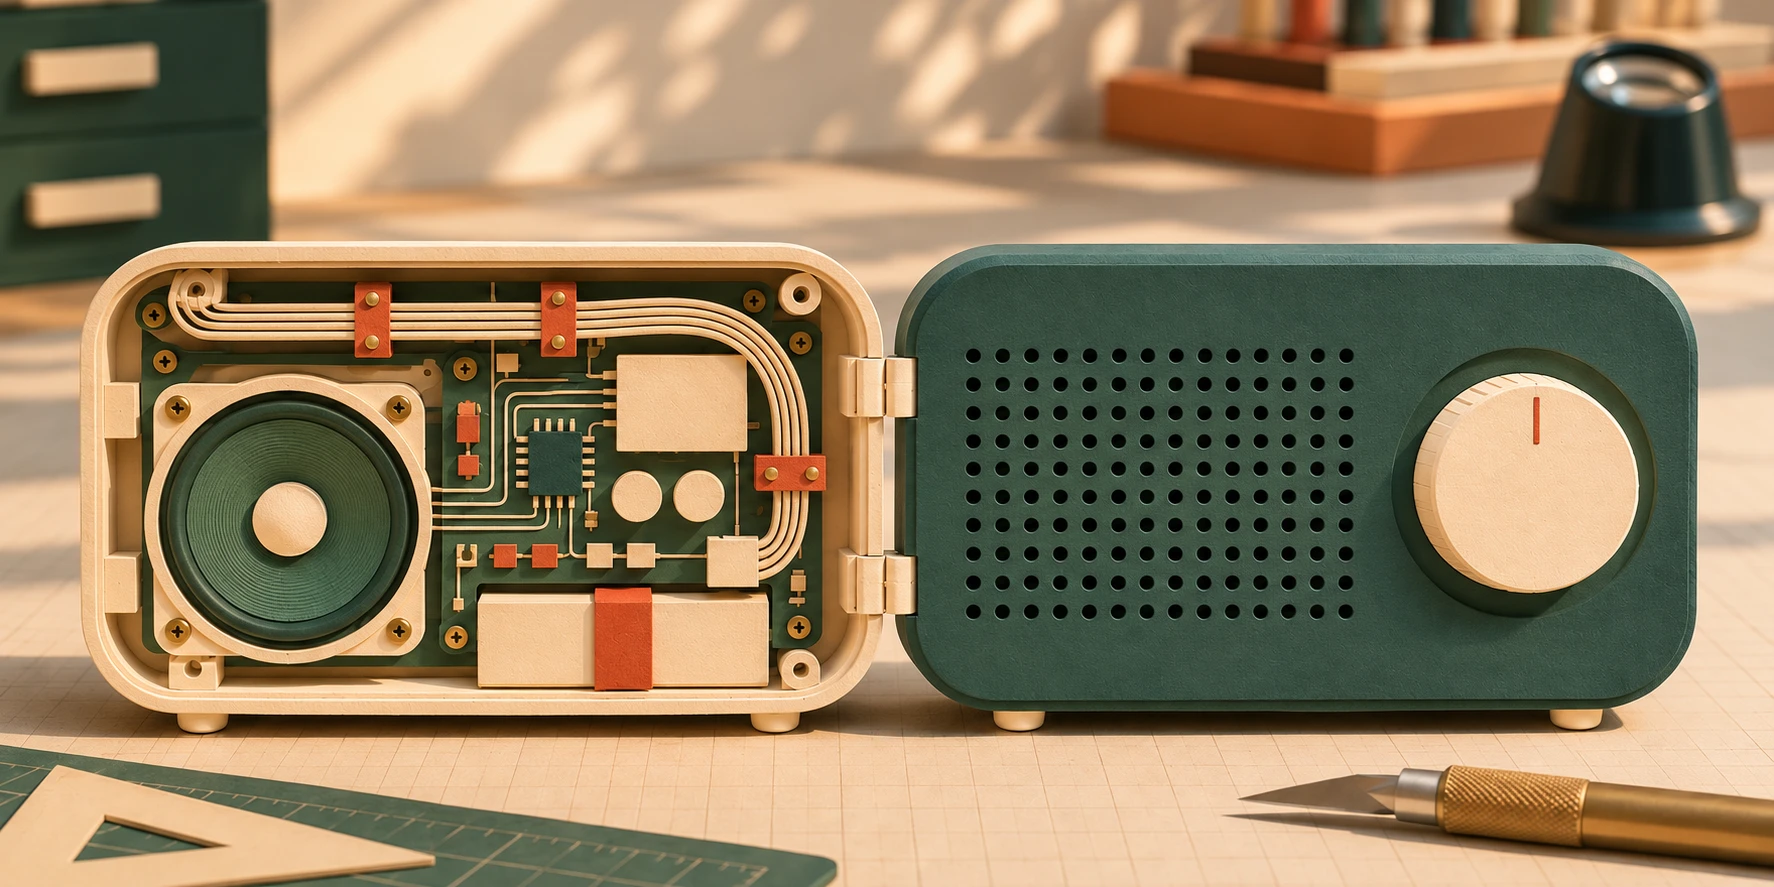
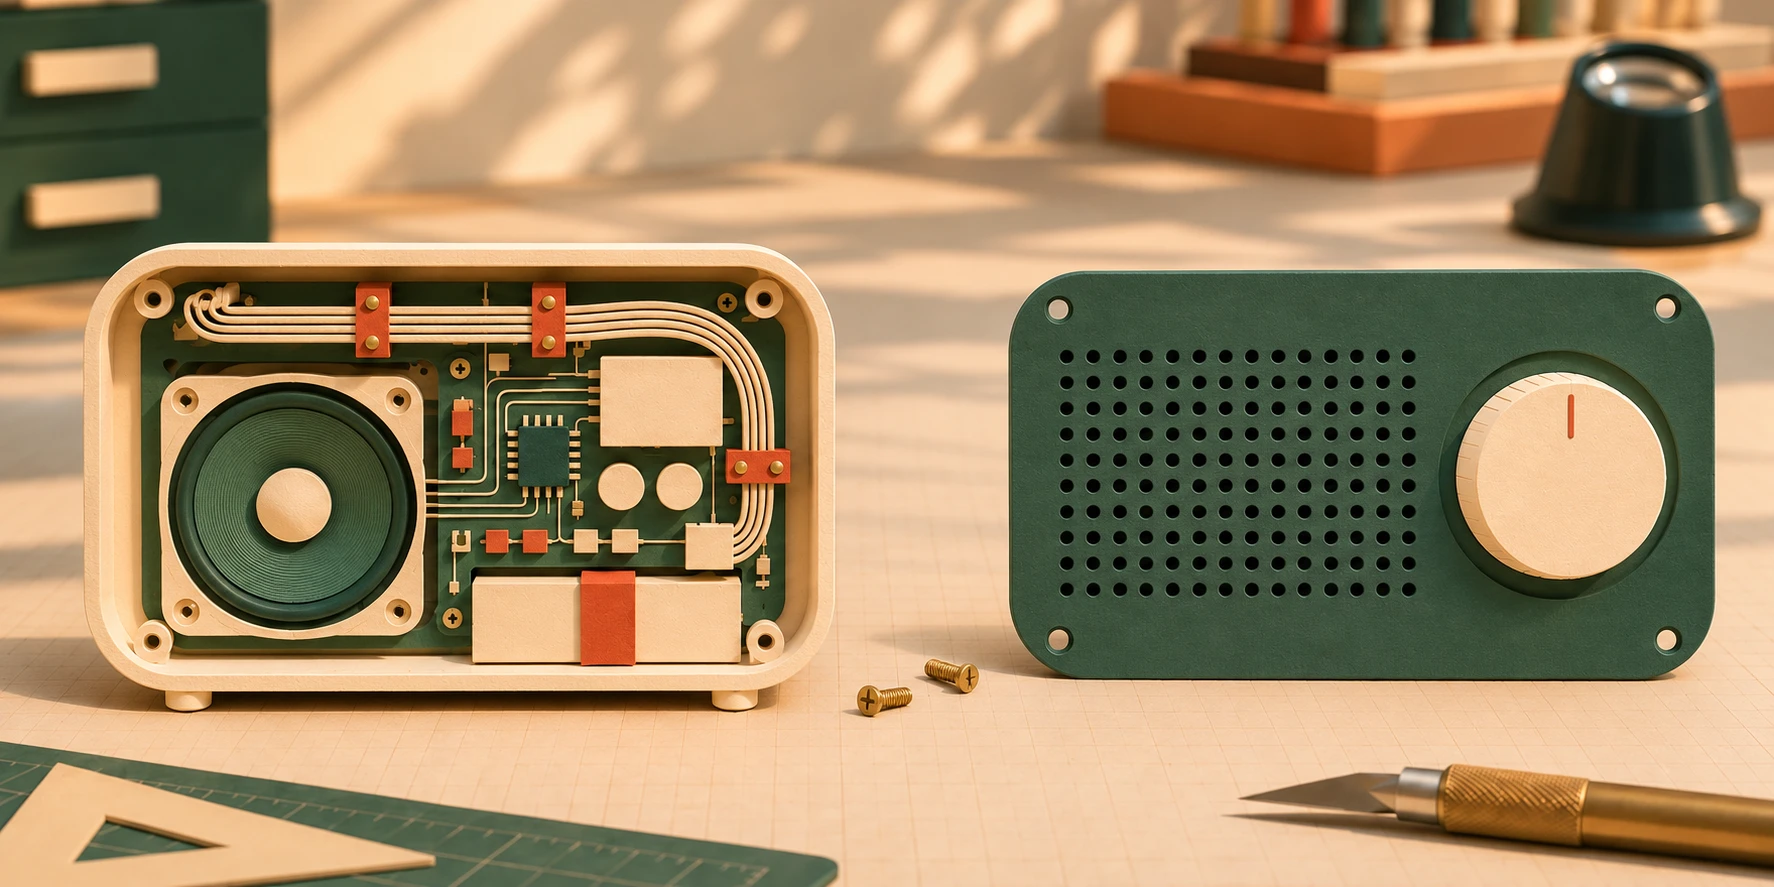
fix: show a detachable front panel on the mission radio

diff --git a/apps/software/app/routes/company.tsx b/apps/software/app/routes/company.tsx
@@ -62,7 +62,7 @@ function Mission(): ReactElement {
         </p>
       </div>
       <Illustration
-        alt={t`Inside a radio, the wiring is as carefully arranged as the dial on its front.`}
+        alt={t`A radio with its front panel removed, showing the speaker and wiring.`}
         className={styles.missionImage}
         height={RADIO_HEIGHT}
         sizes={editorialSizes(WIDE_IMAGE_WIDTH)}

diff --git a/design/paper-miniatures/README.md b/design/paper-miniatures/README.md
@@ -22,7 +22,7 @@ Für den [Bergpfad](../../packages/ui/src/assets/mountain-trails.webp) steht die
 
 Beim [Palamedes-Globus](../../apps/opensource/app/assets/illustrations/palamedes-globe.webp) liegen zwei Korrekturabzüge versetzt im Vordergrund. Wörterbücher, Postfächer und das seitliche Fenster machen den Raum als Übersetzungsbüro erkennbar. Das Sprachband am Globus und die verschiedenen Schriften verbinden ihn mit der Übersetzungsarbeit. Für [Ferramenta](../../apps/opensource/app/assets/illustrations/ferramenta-tools.webp) erzählt der offene Werkzeugkasten von der Familie spezialisierter Werkzeuge. Das [Originalzeichen](../../packages/ui/src/assets/ferramenta-mark.webp) steht separat beim Namen.
 
-Auf der Unternehmensseite begleitet das [geöffnete Radio](../../apps/software/app/assets/illustrations/radio.webp) die Mission. Für die Überarbeitung des Lochrasters diente die vorige Radiofassung als Bildreferenz im eingebauten ImageGen. Beim Abschnitt zu den Open-Source-Kennzahlen steht das mechanische Zählwerk neben der Einleitung. Die aktuellen Werte folgen darunter als Text.
+Auf der Unternehmensseite begleitet das [geöffnete Radio](../../apps/software/app/assets/illustrations/radio.webp) die Mission. Die verschraubte Frontblende steht zur Wartung neben dem Gehäuse. Im montierten Zustand liegt das Lochraster vor dem Lautsprecher und der Drehregler vor der Elektronik. Beim Abschnitt zu den Open-Source-Kennzahlen steht das mechanische Zählwerk neben der Einleitung. Die aktuellen Werte folgen darunter als Text.
 
 ## Grundprompt
 
@@ -38,7 +38,9 @@ Die frühere Blender-Idee mit Metall, Glas, Eiche oder Walnuss und einem Beerent
 
 ## Bildbearbeitung für das Radio
 
-> Edit this reference photograph of an intricate handcrafted miniature paper tabletop radio opened like a book, fixing only the perforated speaker grille. Preserve the almost straight-on camera, wide 2:1 landscape crop, all existing composition, sage petrol-green and warm ivory palette, exact left circuit board, cream wires, hinge, oversized ivory dial at right, workshop tabletop, background, light and crisp paper texture. Replace the dark punctures and dirty mottling on the right green face with a mechanically regular clean rectangular array of round laser-cut holes on a perfectly flat matte dark-green panel. Each hole has a clean round edge and consistent dark interior, with uniform spacing and fully intact green material between holes. All dark shading stays strictly inside the holes. No stray black dots, burns, tearing, scorch marks, scratches, glue marks or stains. No writing or new objects. Retain the original professional editorial product-photography feel with cut paper fibers and physically grounded light. Keep a wide 2:1 framing with the entire radio and both matching feet fully inside the central intended safe frame.
+Die vorige Radiofassung diente als Bildreferenz im eingebauten ImageGen. Die neue Fassung zeigt die abgenommene Frontblende und die Montageschrauben.
+
+> Edit the supplied 2:1 photograph of a meticulously crafted paper miniature tabletop radio. Keep the same warm workshop, background, soft afternoon side light, paper textures, camera framing, muted bottle green, ivory and burnt terracotta. Correct the physical construction: a radio disassembled for service on a workbench, in a simple two-part exploded view. LEFT: a single deep cream radio cabinet, open toward camera, with its round speaker driver fully recessed on the left and clean, orderly circuitry on the right. RIGHT: this very cabinet's fully removed thin rectangular bottle-green front faceplate, resting separately on its lower edge on the workbench and turned just slightly so the viewer can recognize it as a shallow cover. The exterior of the faceplate clearly faces the camera. Keep the circular ivory dial on its right and the clean perforated grille on its left, so when the faceplate is moved straight sideways to sit on the cabinet with NO rotation, the grille correctly covers the speaker and the dial is in front of the electronics. The plate has no separate case or feet. Show clearly empty, continuous tabletop and background in a generous visible gap between both pieces. Place just two or three small removable brass assembly screws flat on the bench in that gap, with separated, matching small screw holes in the corners of the matching pieces. Parallel pieces, same overall proportions, same expected mating edges. The faceplate does not touch the radio at any point. Absolutely no hinge, pivot, bracket, connecting arm, wires bridging across the gap, or folding book construction. Keep the clean unburned regularly spaced speaker grille holes. A premium product photograph of a single lovingly made radio and its detached part, physically coherent even on inspection. Entire radio and detached faceplate visible within a wide 2:1 crop. No text or diagrams.
 
 ## Farbangleichung für die Rhein-Neckar-Karte
 
